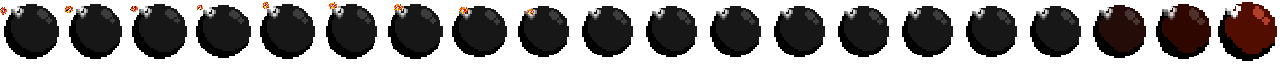
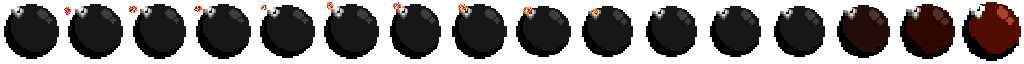
Musical timeout!

diff --git a/audio.js b/audio.js
@@ -5,16 +5,22 @@
 // NOTE: An internal clock that starts ticking the moment you create an audio context
 let audioCtx = null;
 
+const BPM = 110;
+const BEAT = 60 / BPM;
+
+let songDuration = undefined;
+let beatsInSong = undefined;
+
 export let tracks = {};
 export let sfxs = {};
 const TrackURLs = {
-    BIRDS: "assets/music/dawn-chorus-birdsong.mp3",
     BEAT: "assets/music/song_heartbeat.mp3",
     KICK: "assets/music/song_kick.mp3",
     KICK_DRONES: "assets/music/song_kick_drones.mp3",
     INT1: "assets/music/song_intensity01.mp3",
     INT2: "assets/music/song_intensity02.mp3",
     INT3: "assets/music/song_intensity03.mp3",
+    BIRDS: "assets/music/dawn-chorus-birdsong.mp3",     // TODO: might wanna move this to sfx
 }
 
 const SfxURLs = {
@@ -44,6 +50,8 @@ export async function loadFile(filePath) {
     return track;
 }
 
+let firstTrackLoaded = false;
+
 export async function loadAudioFiles() {
     if (audioCtx != null) {
         return;
@@ -52,7 +60,15 @@ export async function loadAudioFiles() {
 
     for (const trackName in TrackURLs) {
         const song = await loadFile(TrackURLs[trackName]);
-        tracks[trackName] = song; // Store the song with its track name as the key
+        // Store the song with its track name as the key
+        tracks[trackName] = song;
+
+        // Get some info about the loop
+        if (!firstTrackLoaded) {
+            songDuration = song.duration;
+            beatsInSong = Math.round(songDuration / BEAT);
+            firstTrackLoaded = true;
+        }
     }
 
     // Handles arrays and single files.
@@ -71,6 +87,12 @@ export async function loadAudioFiles() {
 }
 
 
+export function getOffset() {
+    let elapsedTime = audioCtx.currentTime - startTime;
+    let offset = elapsedTime % songDuration;
+    return offset;
+}
+
 let startTime = 0;
 let currentTrack = null;
 
@@ -85,32 +107,33 @@ export function playTrack(audioBuffer) {
         currentTrack.stop();
     }
 
-    let elapsedTime = audioCtx.currentTime - startTime;
-    let offset = elapsedTime % audioBuffer.duration;
+    let offset = getOffset();
 
     trackSource.start(0, offset);
 
     currentTrack = trackSource;
-    startTime = audioCtx.currentTime - offset; // Update start time considering the offset
+    // Update start time considering the offset
+    startTime = audioCtx.currentTime - offset;
 }
 
 // Syncs the footsteps with the track
 let footsteps = null;
-export function playFootsteps() {
+export function playFootsteps(isWalking) {
+    if (isWalking) return;
+
     const audioBuffer = sfxs['STEPS'];
     const audioSource = new AudioBufferSourceNode(audioCtx, {
         buffer: audioBuffer,
     });
     audioSource.loop = true;
     audioSource.connect(audioCtx.destination);
-
+    
     if (footsteps !== null) {
         footsteps.stop();
     }
 
-    let elapsedTime = audioCtx.currentTime - startTime;
-    let offset = elapsedTime % audioBuffer.duration;
-
+    let offset = getOffset();
+    
     audioSource.start(0, offset);
 
     footsteps = audioSource;
@@ -137,4 +160,32 @@ export function playAudio(audioBuffer) {
     audioSource.connect(audioCtx.destination);
 
     audioSource.start();
+}
+
+// Used with setTimeOut to play sfx in sync with the song
+export function getMusicalTimeout(offbeat = false) {
+    let songOffset = getOffset();
+    let beatsPassed = Math.floor(songOffset / BEAT);
+    
+    // TODO: naming
+    let nextSnare;
+    if (offbeat) {
+        if (beatsPassed % 2 === 0) {
+            nextSnare = 1;
+        } else {
+            nextSnare = 2;
+        }
+    } else {
+        if (beatsPassed % 2 !== 0) {
+            nextSnare = 1;
+        } else {
+            nextSnare = 2;
+        }
+    }
+
+    let nextBeat = (beatsPassed + nextSnare) * BEAT;
+    // Convert to milliseconds
+    let timeout = (nextBeat - songOffset) * 1000;
+
+    return timeout;
 }

diff --git a/bomb.js b/bomb.js
@@ -1,7 +1,7 @@
 // TODO:    Bugi jossa kaksi pommia chainaa toisensa vaikka olivat kaukana toisistaan (en muista laitoinko aina samaan kohtaan)
 import { ctx, level, tileSize, game, globalPause } from "./main.js";
 import { levelHeight, levelWidth } from "./gamestate.js";
-import { playAudio, randomSfx, sfxs } from "./audio.js";
+import { getMusicalTimeout, playAudio, randomSfx, sfxs } from "./audio.js";
 import { spawnEnemiesAtLocation, enemies } from "./enemy.js";
 import { getDistanceTo } from "./utils.js";
 import { findPlayerById, players } from "./player.js";
@@ -18,8 +18,6 @@ export class Bomb {
         this.range = range || 1;
         this.hasExploded = false;
         this.playerId = playerId || 0;
-        this.currentFrame = 0;
-        this.frames = 20;
 
         // Collision
         this.w = tileSize;
@@ -27,20 +25,30 @@ export class Bomb {
         this.collisionW = this.w;
         this.collisionH = this.h;
         this.collisionBox = {x: this.x, y: this.y, w: this.collisionW, h: this.collisionH};
-    
+        
+        // Animation
+        this.currentFrame = 0;
+        this.frames = 16;
+        
         this.ticking = setInterval(() => {
-            if(globalPause) return;
+            if (globalPause) return;
             this.currentFrame++;
             if (this.hasExploded) {
                 clearInterval(this.ticking);
             }
             else if (this.currentFrame >= this.frames) {
-                const randomBomb = randomSfx(sfxs['BOMBS']);
-                playAudio(randomBomb);
-                explode(this);
+                this.currentFrame = this.frames - 1;
+
+                let delay = getMusicalTimeout(true);
+                setTimeout(() => {
+                    const randomBomb = randomSfx(sfxs['BOMBS']);
+                    playAudio(randomBomb);
+                    explode(this);
+                }, delay);
+
                 clearInterval(this.ticking);
             }
-        }, 150);
+        }, 150 );
     }
 }
 

diff --git a/gamestate.js b/gamestate.js
@@ -19,8 +19,6 @@ export let levelPowerup = "random";
 export let softwallPercent = 0.1;
 export let powerupCount = 2;
 
-// Audio
-const birds = document.getElementById("birds");
 
 export class Game {
     constructor() {
@@ -31,11 +29,6 @@ export class Game {
     }
 
     newGame() {
-        // TODO: valitse että laulaako linnut koko lvl1 ajan
-        // if (restarted) {
-        //     playTrack(tracks['BEAT']);
-        // }
-        // birds.play();
         playTrack(tracks['BIRDS']);
         setGlobalPause(true);
         localStorage.clear();
@@ -76,9 +69,6 @@ export class Game {
         } else lastLevel = false;
         
         if (this.level > 1) {
-            // if (this.level === 2) {      // TODO: katso ylempi todo
-            //     birds.pause();
-            // }
             if (lastLevel) {
                 playTrack(tracks['BEAT']);
             } else {
@@ -102,7 +92,6 @@ export class Game {
         powerupCount = levelData.powerupCount;
         softwallPercent = levelData.softwallPercent;
         setTextures();
-        //console.log("Level", this.level, levelData);
         
         let newLevel = createTiles();
         level.length = 0;
@@ -215,7 +204,7 @@ export class Game {
                 playTrack(tracks['INT1']);                
             }
         }
-        else if (this.numOfEnemies <= 3 && this.level > 1) {
+        else if (this.numOfEnemies <= 3 && this.level > 2) {
             playTrack(tracks['INT3']);
         }
     }

diff --git a/enemy.js b/enemy.js
@@ -4,7 +4,7 @@ import { Direction, players } from "./player.js";
 import { lerp, getDistanceTo, getRandomWalkablePointInRadius, getTileFromWorldLocation, isWalkable, getDistanceToEuclidean, aabbCollision } from "./utils.js";
 import { requestPath } from "./pathfinder.js";
 import { tilesWithBombs } from "./bomb.js";
-import { playAudio, randomSfx, sfxs } from "./audio.js";
+import { getMusicalTimeout, playAudio, randomSfx, sfxs } from "./audio.js";
 
 
 export const enemyType = {
@@ -109,7 +109,7 @@ class Enemy
         }
     }
 
-    collidedWithBomb() {
+    collidedWithBomb() {    // TODO: onko tää funktio käytössä?
         this.playSfx();
 
         switch(this.enemyType) {
@@ -199,10 +199,11 @@ class Enemy
                     clearInterval(this.timer);
                     this.currentPath.length = 0;
 
-                    if (this.enemyType === "Zombie") {
+                    const delay = getMusicalTimeout();  // TODO: ei toimi delay tässä
+                    if (this.enemyType === "Zombie") { 
                         setTimeout(() => {
                             this.playSfx();
-                        }, 500);
+                        }, delay);
                     }
                 }
             }

diff --git a/player.js b/player.js
@@ -44,6 +44,7 @@ class Player
 
         this.speed = 150.0; // pixels/s
         this.direction = Direction.RIGHT;
+        this.isWalking = false;
 
         // Key binds
         this.keybinds = keybinds;
@@ -106,8 +107,10 @@ class Player
 
         // Play footsteps
         if (this.dx !== 0.0 || this.dy !== 0.0) {
-            playFootsteps();
+            playFootsteps(this.isWalking);
+            this.isWalking = true;
         } else {
+            this.isWalking = false;
             stopFootsteps();
         }
 
